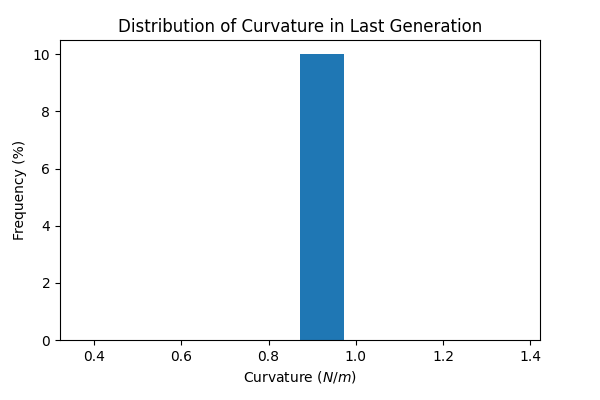
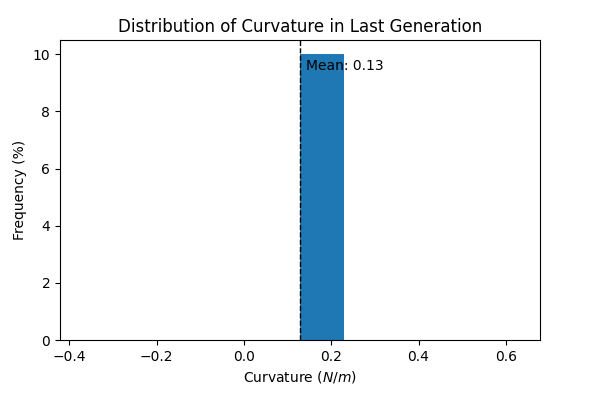
add mean line to histograms

diff --git a/src/analyze_ga.py b/src/analyze_ga.py
@@ -13,7 +13,7 @@ from matplotlib.colors import LightSource
 
 def analyze(results_dir):
     results_df = pandas.read_csv(results_dir)
-    print("all results >>>>\n", results_df.to_string(), "\nall results <<<<")
+    # print("all results >>>>\n", results_df.to_string(), "\nall results <<<<")
 
     analyze_final_generation(results_df)
 
@@ -182,7 +182,7 @@ def compare_distributions(df):
     histogram(
         "scale",
         df,
-        title="Distribution of Curvature in Last Generation",
+        title="Distribution of Scale in Last Generation",
         x_axis_title="Curvature $(N/m)$",
         y_axis_title="Frequency (%)",
         figsize=(6, 4),
@@ -202,8 +202,11 @@ def histogram(var, df, title, x_axis_title, y_axis_title, figsize=(8, 6)):
     last_generation_df = get_generation_df(df, last_generation)
 
     var_df = last_generation_df[var]
+    mean = var_df.mean()
+    std = var_df.std()
 
-    print(title, "(", var_df.mean(), var_df.std(), ")")
+    print(title, "(", mean, std, ")")
+    
 
     fig = plt.figure(figsize=figsize)
     ax = fig.add_axes([0.1, 0.15, 0.8, 0.75])
@@ -212,6 +215,12 @@ def histogram(var, df, title, x_axis_title, y_axis_title, figsize=(8, 6)):
     plt.ylabel(y_axis_title)
 
     plt.hist(var_df, density=True)
+
+    plt.axvline(var_df.mean(), color='k', linestyle='dashed', linewidth=1)
+
+    min_ylim, max_ylim = plt.ylim()
+    plt.text(mean*1.1, max_ylim*0.9, 'Mean: {:.2f}'.format(var_df.mean()))
+
 
     save_plot(title)
 
